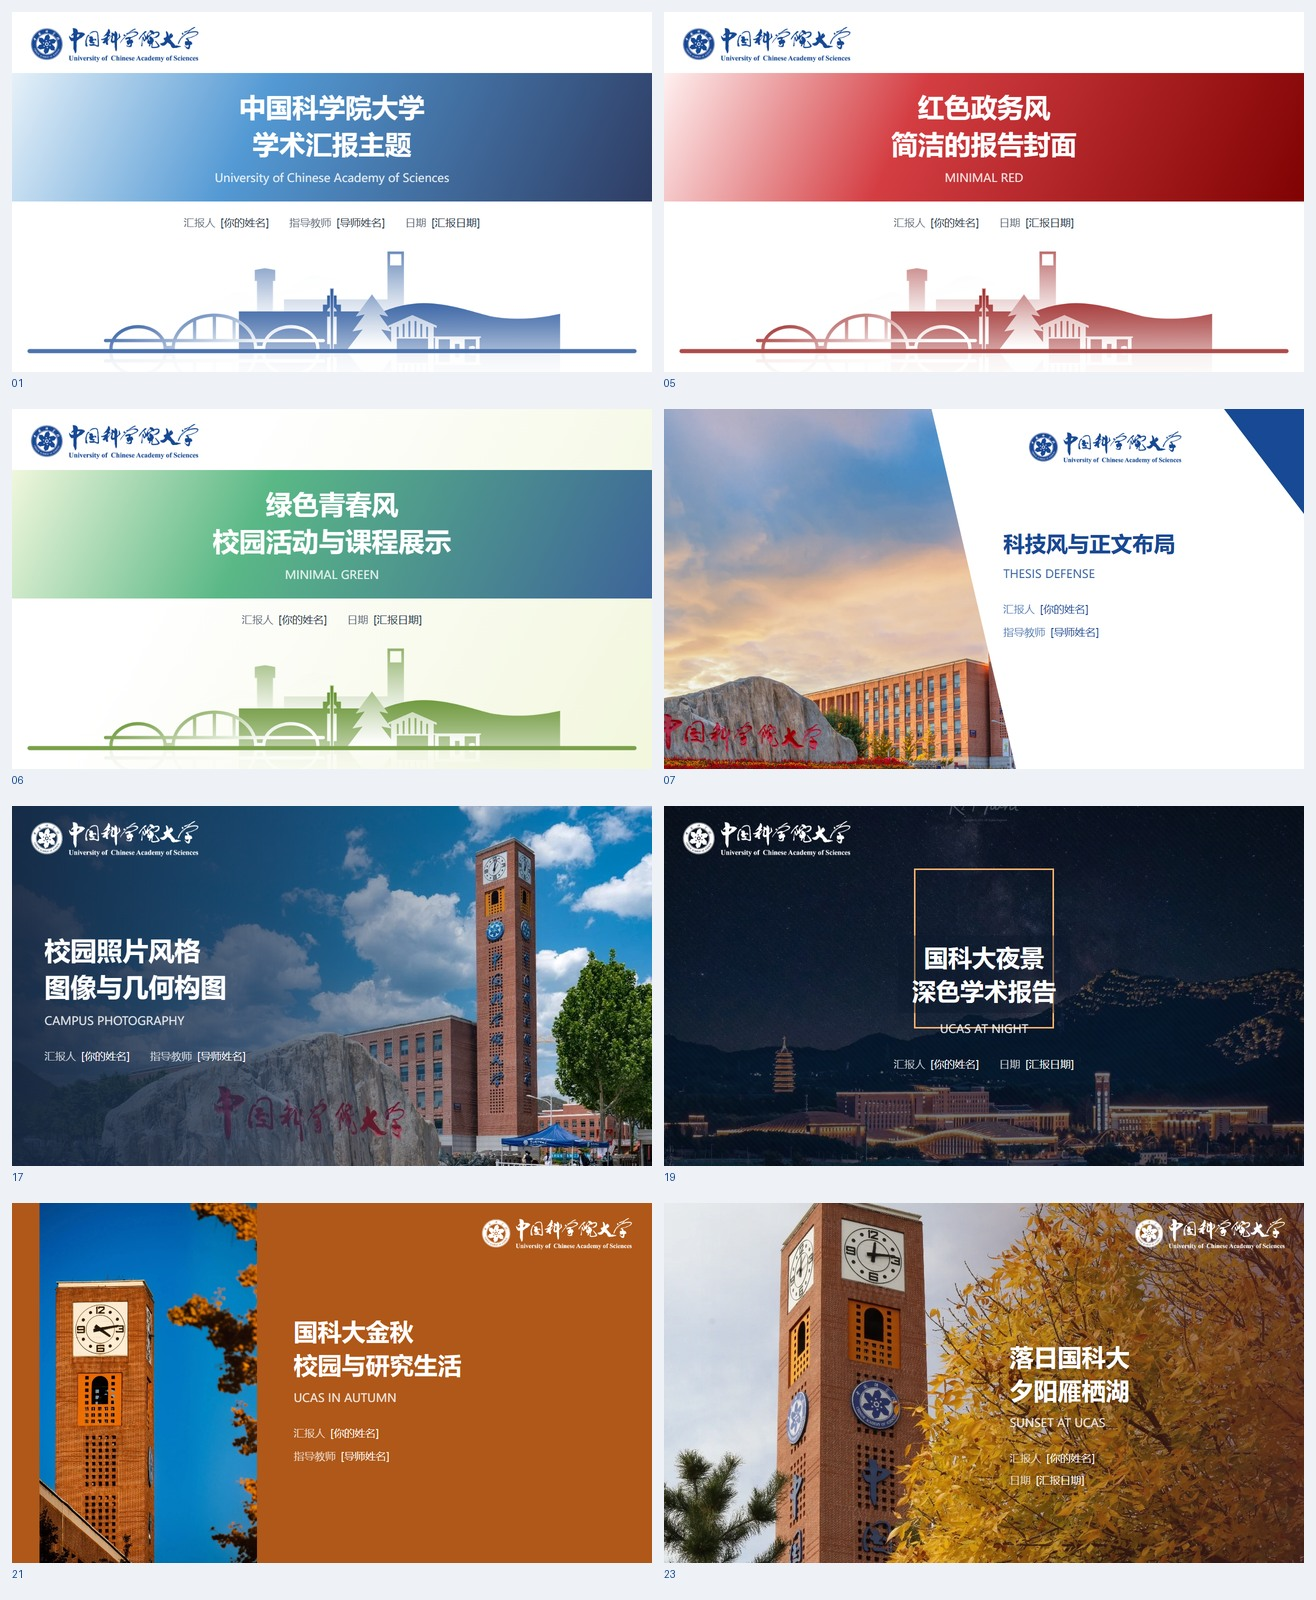
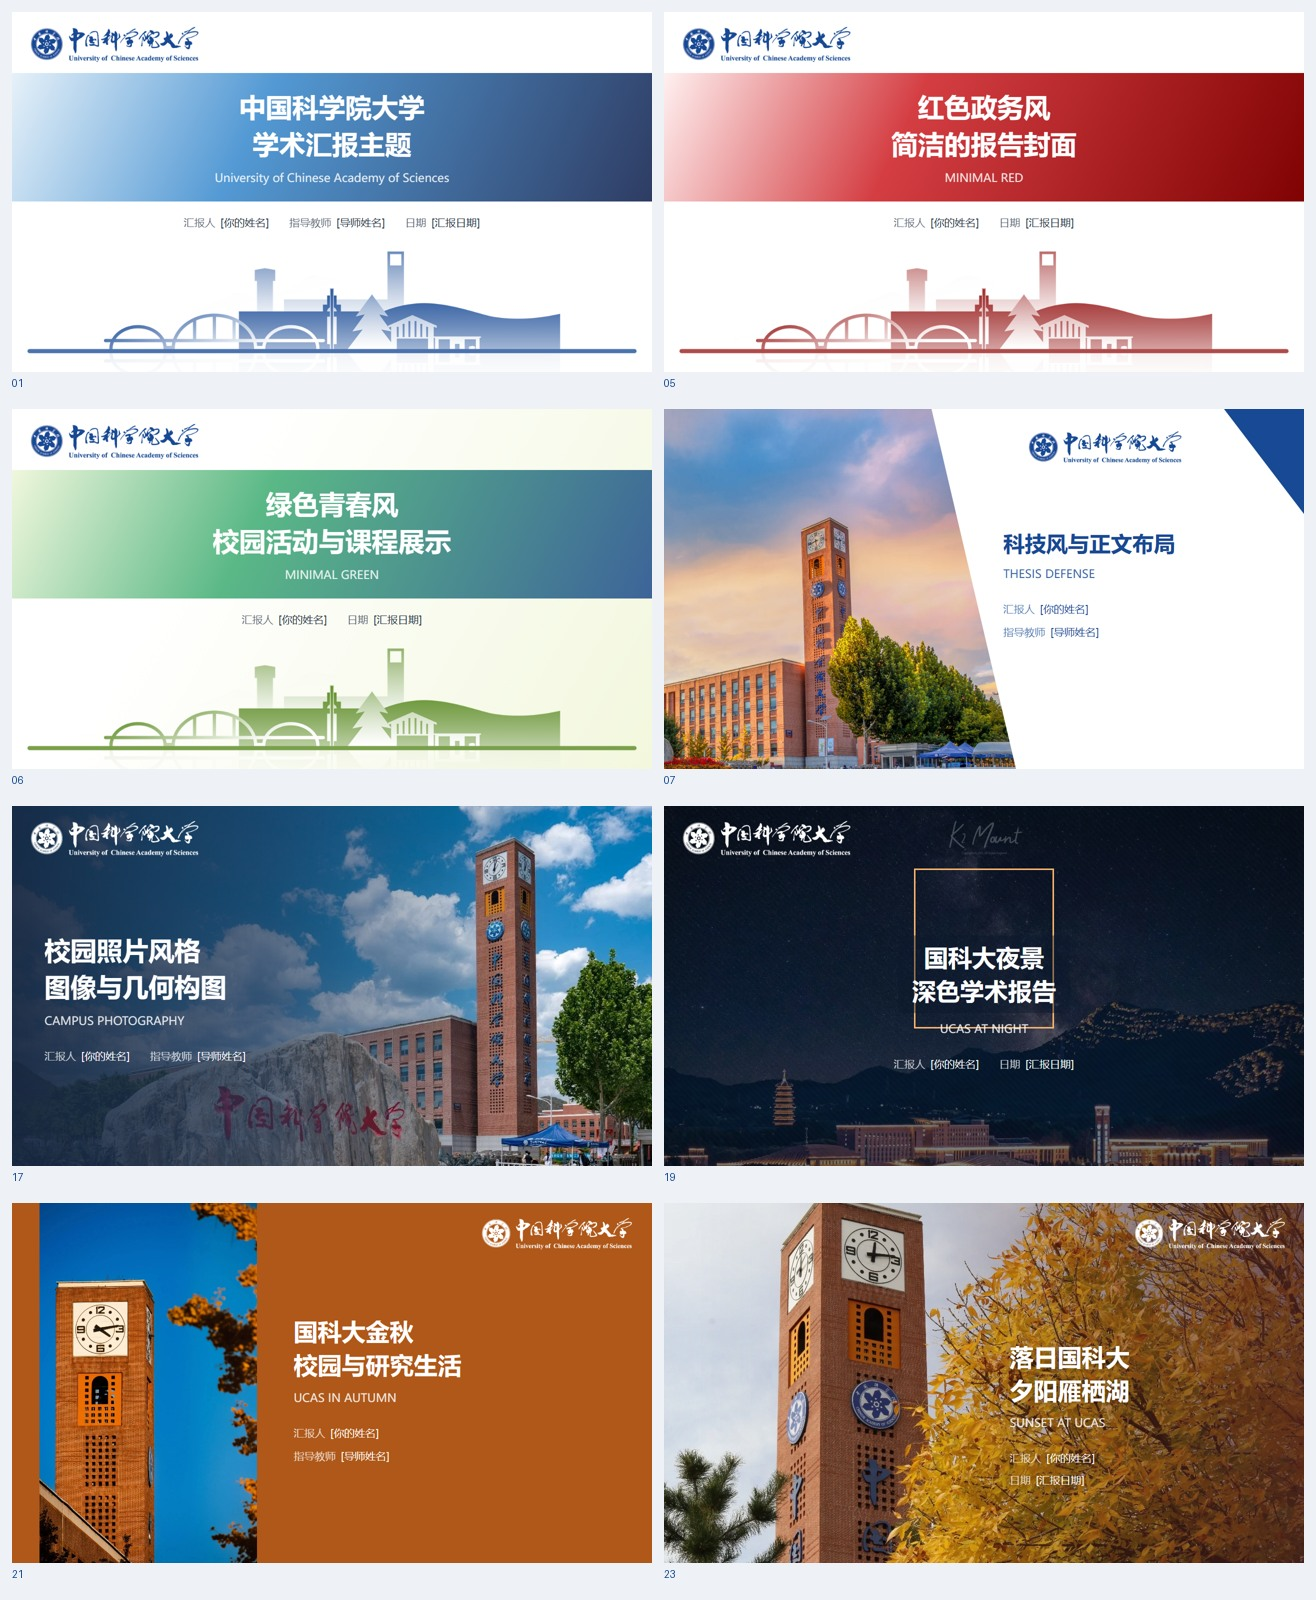
fix: preserve clock tower and credits in cover crops

Changed region(s): [[0.4985, 0.25, 0.7789, 0.5312], [0.4985, 0.5938, 0.997, 0.75]]

diff --git a/styles/theme.css b/styles/theme.css
@@ -86,7 +86,7 @@
 .ucas-cover-wash { position:absolute; inset:0; }
 .ucas-cover:is(.ucas-style-tech,.ucas-style-diagonal,.ucas-style-night,.ucas-style-autumn,.ucas-style-sunset) .ucas-cover-title { background:none; text-align:left; align-items:flex-start; padding:0; min-height:0; }
 .ucas-cover:is(.ucas-style-tech,.ucas-style-diagonal,.ucas-style-night,.ucas-style-autumn,.ucas-style-sunset) .ucas-cover-meta { margin:36px 0 0; justify-content:flex-start; }
-.ucas-cover.ucas-style-tech .ucas-cover-photo { top:-90px; height:calc(100% + 90px); width:55%; clip-path:polygon(0 0,73% 0,100% 100%,0 100%); }
+.ucas-cover.ucas-style-tech .ucas-cover-photo { top:-90px; height:calc(100% + 90px); width:55%; object-position:right center; clip-path:polygon(0 0,73% 0,100% 100%,0 100%); }
 .ucas-cover.ucas-style-tech::after { content:''; position:absolute; top:0; right:0; width:160px; height:210px; background:var(--ucas-primary); clip-path:polygon(0 0,100% 0,100% 100%); }
 .ucas-cover.ucas-style-tech > .ucas-brand { left:57%; top:45px; width:305px; }
 .ucas-cover.ucas-style-tech .ucas-cover-content { left:53%; right:5%; top:33%; color:var(--ucas-primary); }
@@ -198,3 +198,6 @@
 .ucas-timeline h3 { margin:0 0 12px; }
 .ucas-timeline p { font-size:22px; line-height:1.7; }
 @media print { .slidev-layout { print-color-adjust:exact; -webkit-print-color-adjust:exact; } }
+
+/* Keep the original photographic credit visible on night covers. */
+.ucas-cover.ucas-style-night .ucas-cover-photo { object-position:center top; }
